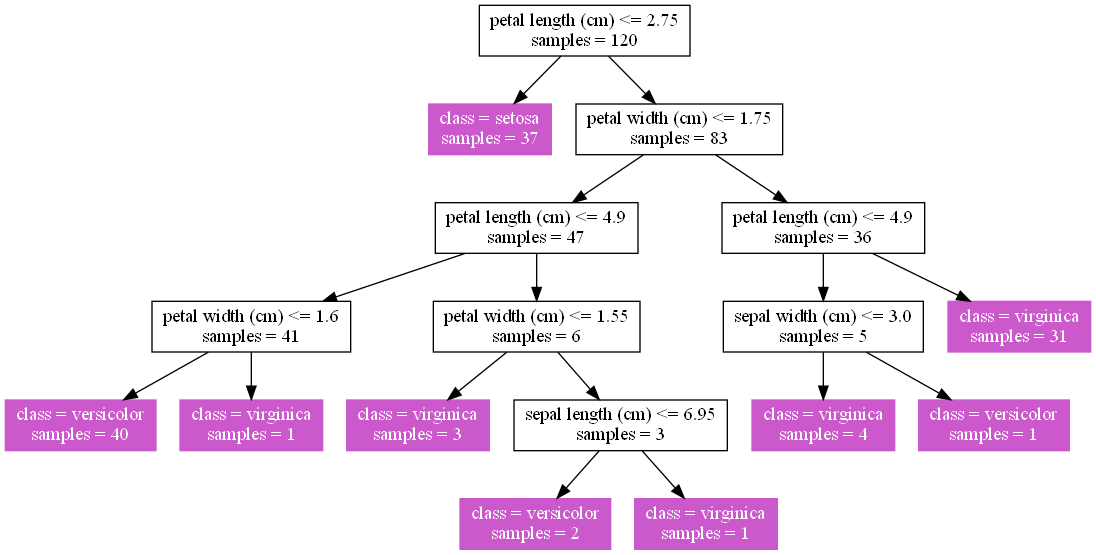
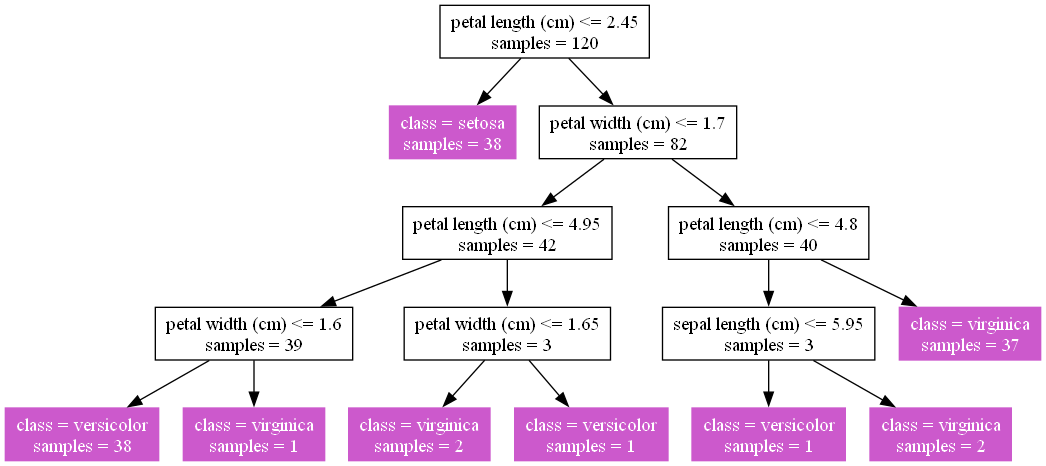
optimized with random forests

Changed region(s): [[0.0, 0.0, 1.0, 0.9914]]

diff --git a/DecisionTree/cart.py b/DecisionTree/cart.py
@@ -5,14 +5,17 @@ from sklearn.model_selection import train_test_split
 from graphviz import Digraph
 
 
+# 计算连续型数据的基尼系数
 def min_gini(labels, attributes):
     centrals = []
     new_list = []
     label_set = np.unique(labels)
     for i in range(len(labels)):
         new_list.append((labels[i], attributes[i]))
+    sort_list = np.copy(attributes)
+    sort_list.sort()
     for i in range(len(attributes) - 1):
-        centrals.append((attributes[i] + attributes[i + 1]) / 2)
+        centrals.append((sort_list[i] + sort_list[i + 1]) / 2)
     split_num = 0
     min_gini_num = None
     for num in centrals:
@@ -41,6 +44,7 @@ class TreeNode:
     def __init__(self, attributes, labels):
         self.is_leaf = False
         self.attributes = attributes
+        # 判断是否停止迭代
         if len(set(labels)) == 1:
             self.label = labels[0]
             self.is_leaf = True
@@ -49,8 +53,10 @@ class TreeNode:
             for i in range(attributes.shape[1]):
                 gini_num, split_num = min_gini(labels, attributes[:, i])
                 properties.append((i, gini_num, split_num))
+            # 获取二元离散分类点
             index = np.argmin(list(map(lambda x: x[1], properties)))
             self.prop = properties[index][0]
+            self.gini = properties[index][1]
             self.split_num = properties[index][2]
             left_attr = []
             left_labels = []
@@ -63,9 +69,11 @@ class TreeNode:
                 else:
                     right_attr.append(attributes[i])
                     right_labels.append(labels[i])
+            # 递归方式生成决策树
             self.left_node = TreeNode(np.array(left_attr), left_labels)
             self.right_node = TreeNode(np.array(right_attr), right_labels)
 
+    # 决策树绘制部分
     def add_node(self, graph, labels, class_names):
 
         graph.node(str(self.__hash__()), self.describe(labels, class_names), shape='box',
@@ -77,6 +85,7 @@ class TreeNode:
             graph.edge(str(self.__hash__()), str(self.left_node.__hash__()))
             graph.edge(str(self.__hash__()), str(self.right_node.__hash__()))
 
+    # 添加可视化标签
     def describe(self, labels, class_names):
         description = ''
         if self.is_leaf:
@@ -86,6 +95,7 @@ class TreeNode:
         description += 'samples = ' + str(len(self.attributes))
         return description
 
+    # 计算样本结果
     def calculate_result(self, vector):
         if self.is_leaf:
             return self.label
@@ -97,18 +107,44 @@ class TreeNode:
 
 
 if __name__ == '__main__':
+    # 获取Iris数据集
     iris = datasets.load_iris()
     labels_name = iris.feature_names
     target_name = iris.target_names
+    # 获取训练集与测试集
     x_train, x_test, y_train, y_test = train_test_split(iris.data, iris.target, test_size=0.2)
+    # 生成决策树
     root = TreeNode(np.array(x_train), y_train)
     # 计算Micro-F1和Macro-F1
     results = list(map(lambda x: root.calculate_result(x), x_test))
     micro_f1 = f1_score(y_test, results, average="micro")
     macro_f1 = f1_score(y_test, results, average="macro")
+    print("Cart Tree Results:")
     print("Micro-F1 Score: " + str(micro_f1))
     print("Macro-F1 Score: " + str(macro_f1))
-    # 绘制树
-    g = Digraph('G', filename='decision_tree_kami.gv')
+    print()
+    # 绘制决策树
+    g = Digraph('G', filename='decision_tree.gv', format='png')
     root.add_node(g, labels_name, target_name)
-    # g.view()
+    g.view(filename="cart")
+    # Random Forest Optimizing
+    forests = []
+    # 以10棵树为例
+    k = 10
+    # 抽取训练集样本以生成树
+    for _ in range(k):
+        x_samples, _, y_samples, _ = train_test_split(x_train, y_train, test_size=0.3)
+        forests.append(TreeNode(np.array(x_samples), y_samples))
+    random_forest_result = []
+    # 计算Random Forest的结果
+    for tree in forests:
+        random_forest_result.append(list(map((lambda x: tree.calculate_result(x)), x_test)))
+    random_forest_result = np.array(random_forest_result).T
+    voting_result = []
+    for line in random_forest_result:
+        voting_result.append(np.argmax(np.bincount(line)))
+    micro_f1 = f1_score(y_test, voting_result, average="micro")
+    macro_f1 = f1_score(y_test, voting_result, average="macro")
+    print("Random Forest Results:")
+    print("Micro-F1 Score: " + str(micro_f1))
+    print("Macro-F1 Score: " + str(macro_f1))
